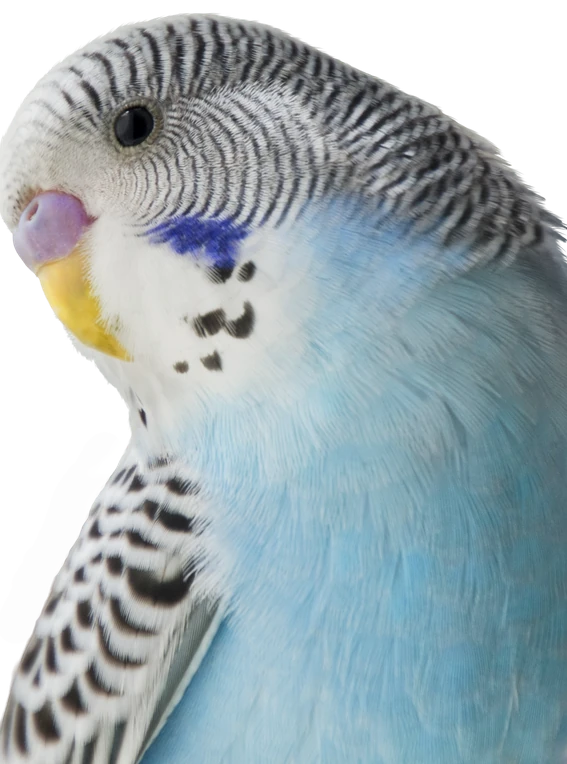
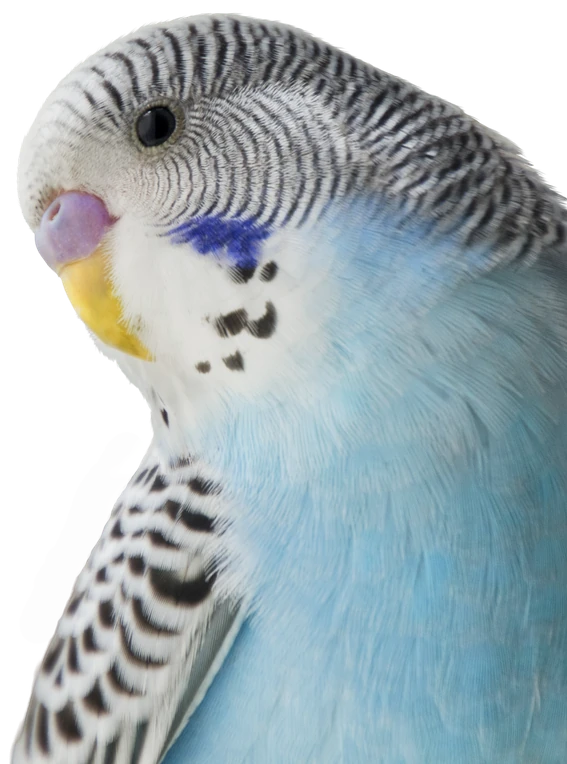
Widen Find Out More CTA to match end-card width

diff --git a/index.html b/index.html
@@ -80,7 +80,7 @@
   .step2     { left: 56.96px;  top: 238.47px; width: 206px;    height: 51.33px; }
   .step3     { left: 56.96px;  top: 301.83px; width: 154.67px; height: 52px; }
   .card      { left: 81.67px;  top: 143px;    width: 156.67px; height: 158.33px; }
-  .cta       { left: 81.33px;  top: 316.67px; width: 157.33px; height: 27.33px; }
+  .cta       { left: 81.67px;  top: 316.67px; width: 156.67px; height: 27.22px; }
   .govtnz    { left: 210.33px; top: 430.33px; width: 90.67px;  height: 33.33px; }
 
   /* --- keyframes ---
